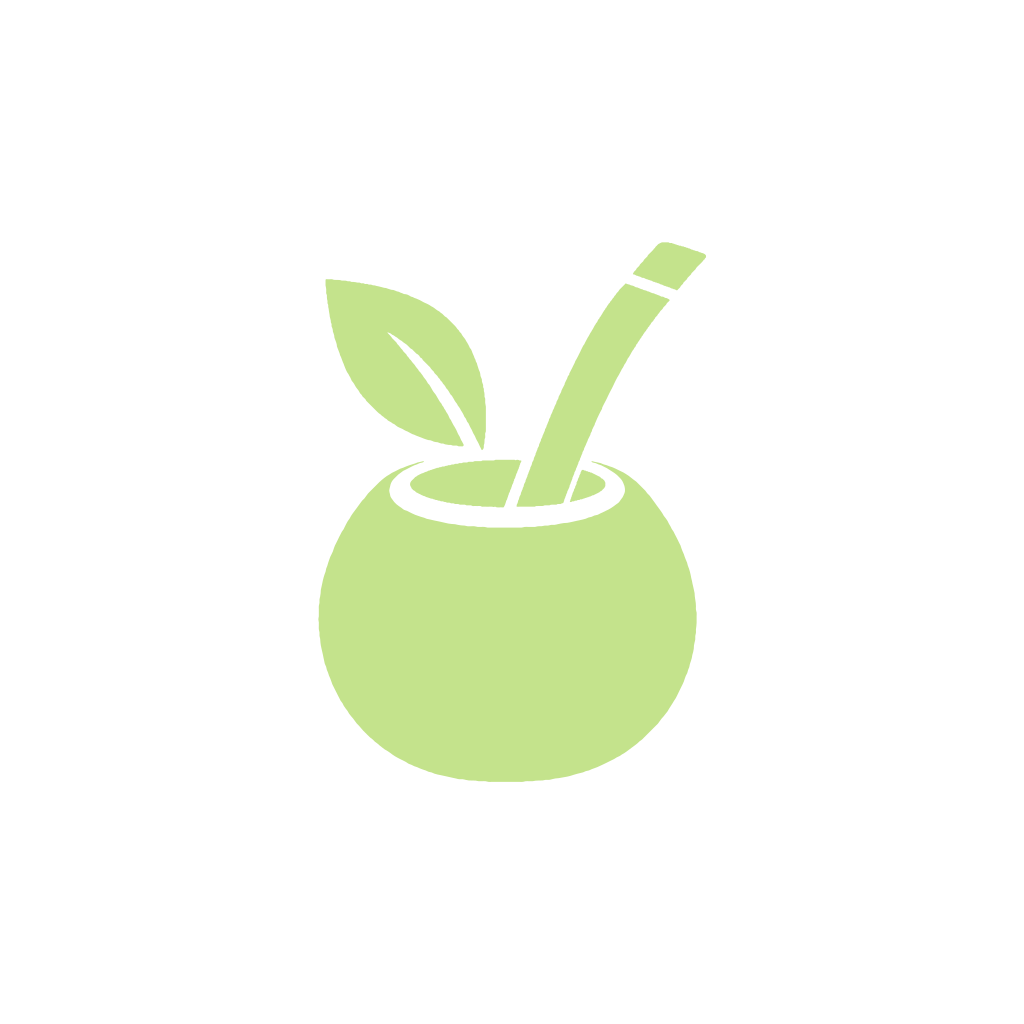
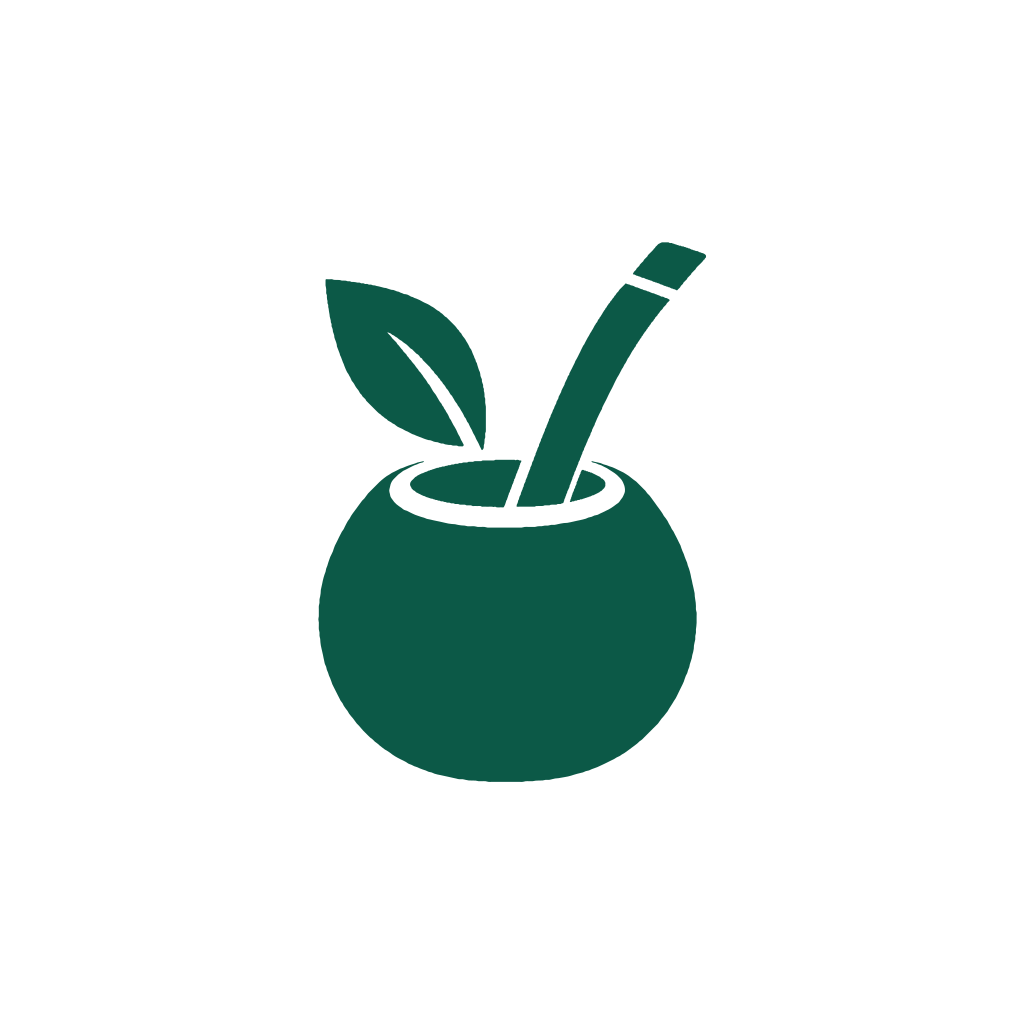
fix: update android foreground color and background for branding assets
- Changed the android foreground color from lime to green for better visibility.
- Updated the android background color from green to cream to enhance aesthetics.

Changed region(s): [[0.3125, 0.2188, 0.6875, 0.7812]]

diff --git a/assets/branding/README.md b/assets/branding/README.md
@@ -5,8 +5,8 @@ Adaptación vectorial de `yerba-plataform/apps/web/public/logos/yerbatica-small.
 - `icon.png` / `.svg`: lima `#c4e38c` sobre verde; ícono principal de 1024 × 1024, sin transparencia ni esquinas redondeadas.
 - `icon-light.png` / `.svg`: verde sobre crema, variante clara.
 - `logo-green`, `logo-cream`, `logo-white`: símbolos con fondo transparente, en PNG y SVG.
-- `android-foreground.png`: símbolo lima `#c4e38c` sobre transparencia, dentro de la zona segura adaptativa.
-- `android-background.png`: fondo verde independiente.
+- `android-foreground.png`: símbolo verde `#0c5947` sobre transparencia, dentro de la zona segura adaptativa.
+- `android-background.png`: fondo crema independiente.
 - `android-monochrome.png`: máscara blanca transparente para íconos temáticos de Android.
 - `splash-logo.png`: símbolo verde transparente para la pantalla de inicio.
 - `preview.png`: lámina de referencia.
